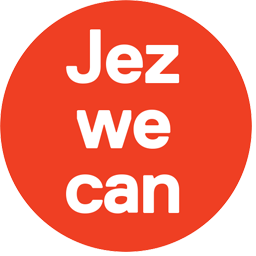
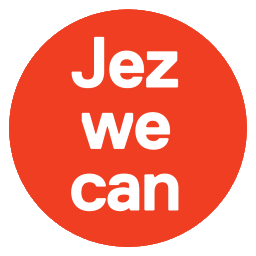
Re-did sticker images with new border and fixed clipping.

diff --git a/www/js/services.js b/www/js/services.js
@@ -55,6 +55,10 @@ angular.module('corbynemoji.services', [])
     }, {
       category: 'stickers',
       name: 'miners_victory'
+    },
+    {
+      category: 'stickers',
+      name: 'coal_not_dole'
     }, {
       category: 'stickers',
       name: 'keep_left'
